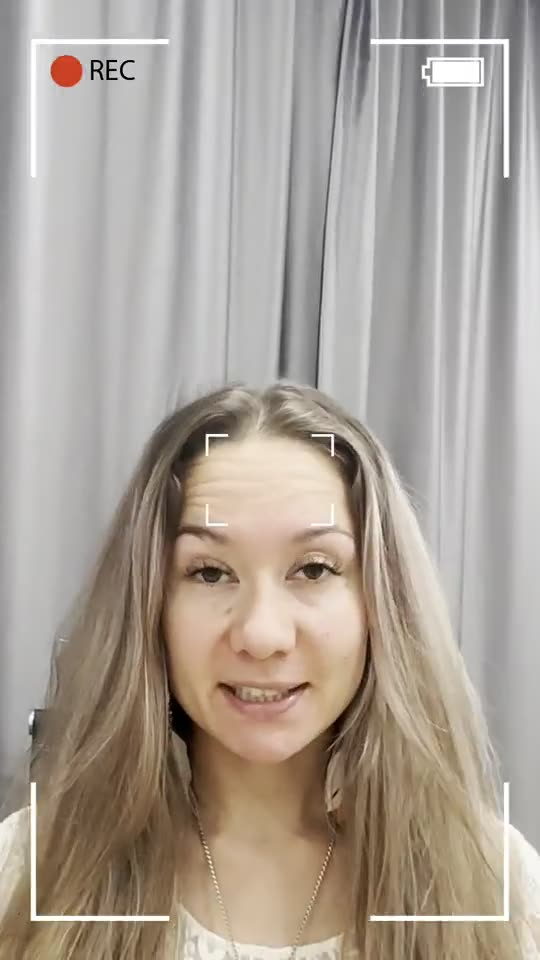
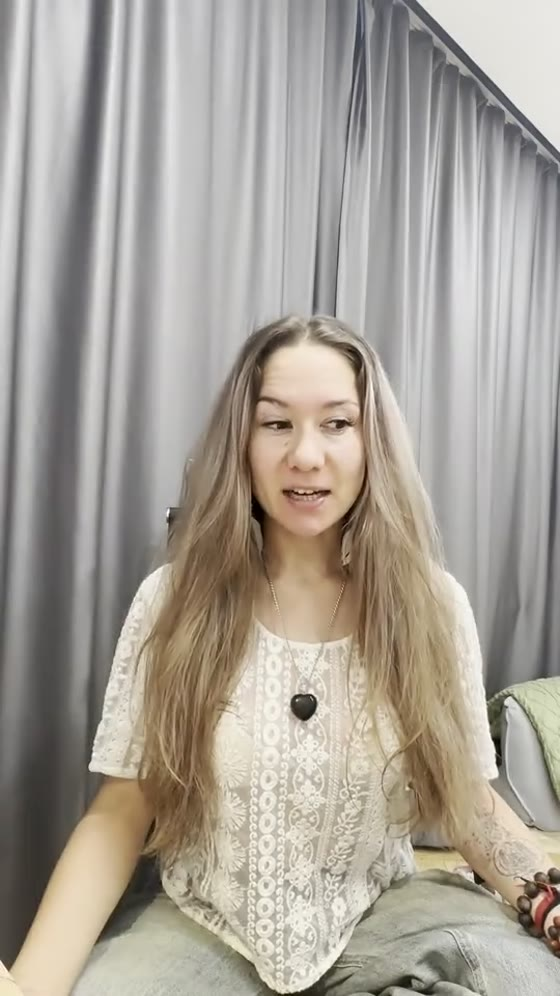
Скриншоты из видео для обложек отзывов + промокод WhatsApp 77066207875

diff --git a/index.html b/index.html
@@ -1068,7 +1068,7 @@ svg.illu .acc { stroke: var(--aqua); }
       <div class="promo-strip reveal" data-od-id="promo-strip">
         <div class="ps-row">
           <span class="ps-text">Впервые на экстатике? Получи <strong>промокод −10%</strong> на первый раз</span>
-          <a class="btn" href="https://wa.me/77786297875?text=%D0%A5%D0%BE%D1%87%D1%83%20%D0%BF%D1%80%D0%BE%D0%BC%D0%BE%D0%BA%D0%BE%D0%B4%20-10%25%20%D0%BD%D0%B0%20%D0%BF%D0%B5%D1%80%D0%B2%D1%8B%D0%B9%20%D1%8D%D0%BA%D1%81%D1%82%D0%B0%D1%82%D0%B8%D0%BA%20%E2%80%94%20%D1%8F%20%D0%B2%D0%BF%D0%B5%D1%80%D0%B2%D1%8B%D0%B5&amp;utm_source=landing&amp;utm_medium=messenger&amp;utm_content=promo" target="_blank" rel="noopener" data-od-id="promo-wa">Получить промокод в WhatsApp</a>
+          <a class="btn" href="https://wa.me/77066207875?text=%D0%A5%D0%BE%D1%87%D1%83%20%D0%BF%D1%80%D0%BE%D0%BC%D0%BE%D0%BA%D0%BE%D0%B4%20-10%25%20%D0%BD%D0%B0%20%D0%BF%D0%B5%D1%80%D0%B2%D1%8B%D0%B9%20%D1%8D%D0%BA%D1%81%D1%82%D0%B0%D1%82%D0%B8%D0%BA%20%E2%80%94%20%D1%8F%20%D0%B2%D0%BF%D0%B5%D1%80%D0%B2%D1%8B%D0%B5&amp;utm_source=landing&amp;utm_medium=messenger&amp;utm_content=promo" target="_blank" rel="noopener" data-od-id="promo-wa">Получить промокод в WhatsApp</a>
         </div>
         <p class="ps-fine">Пришлём код в ответном сообщении. Действует только на первое посещение.</p>
       </div>